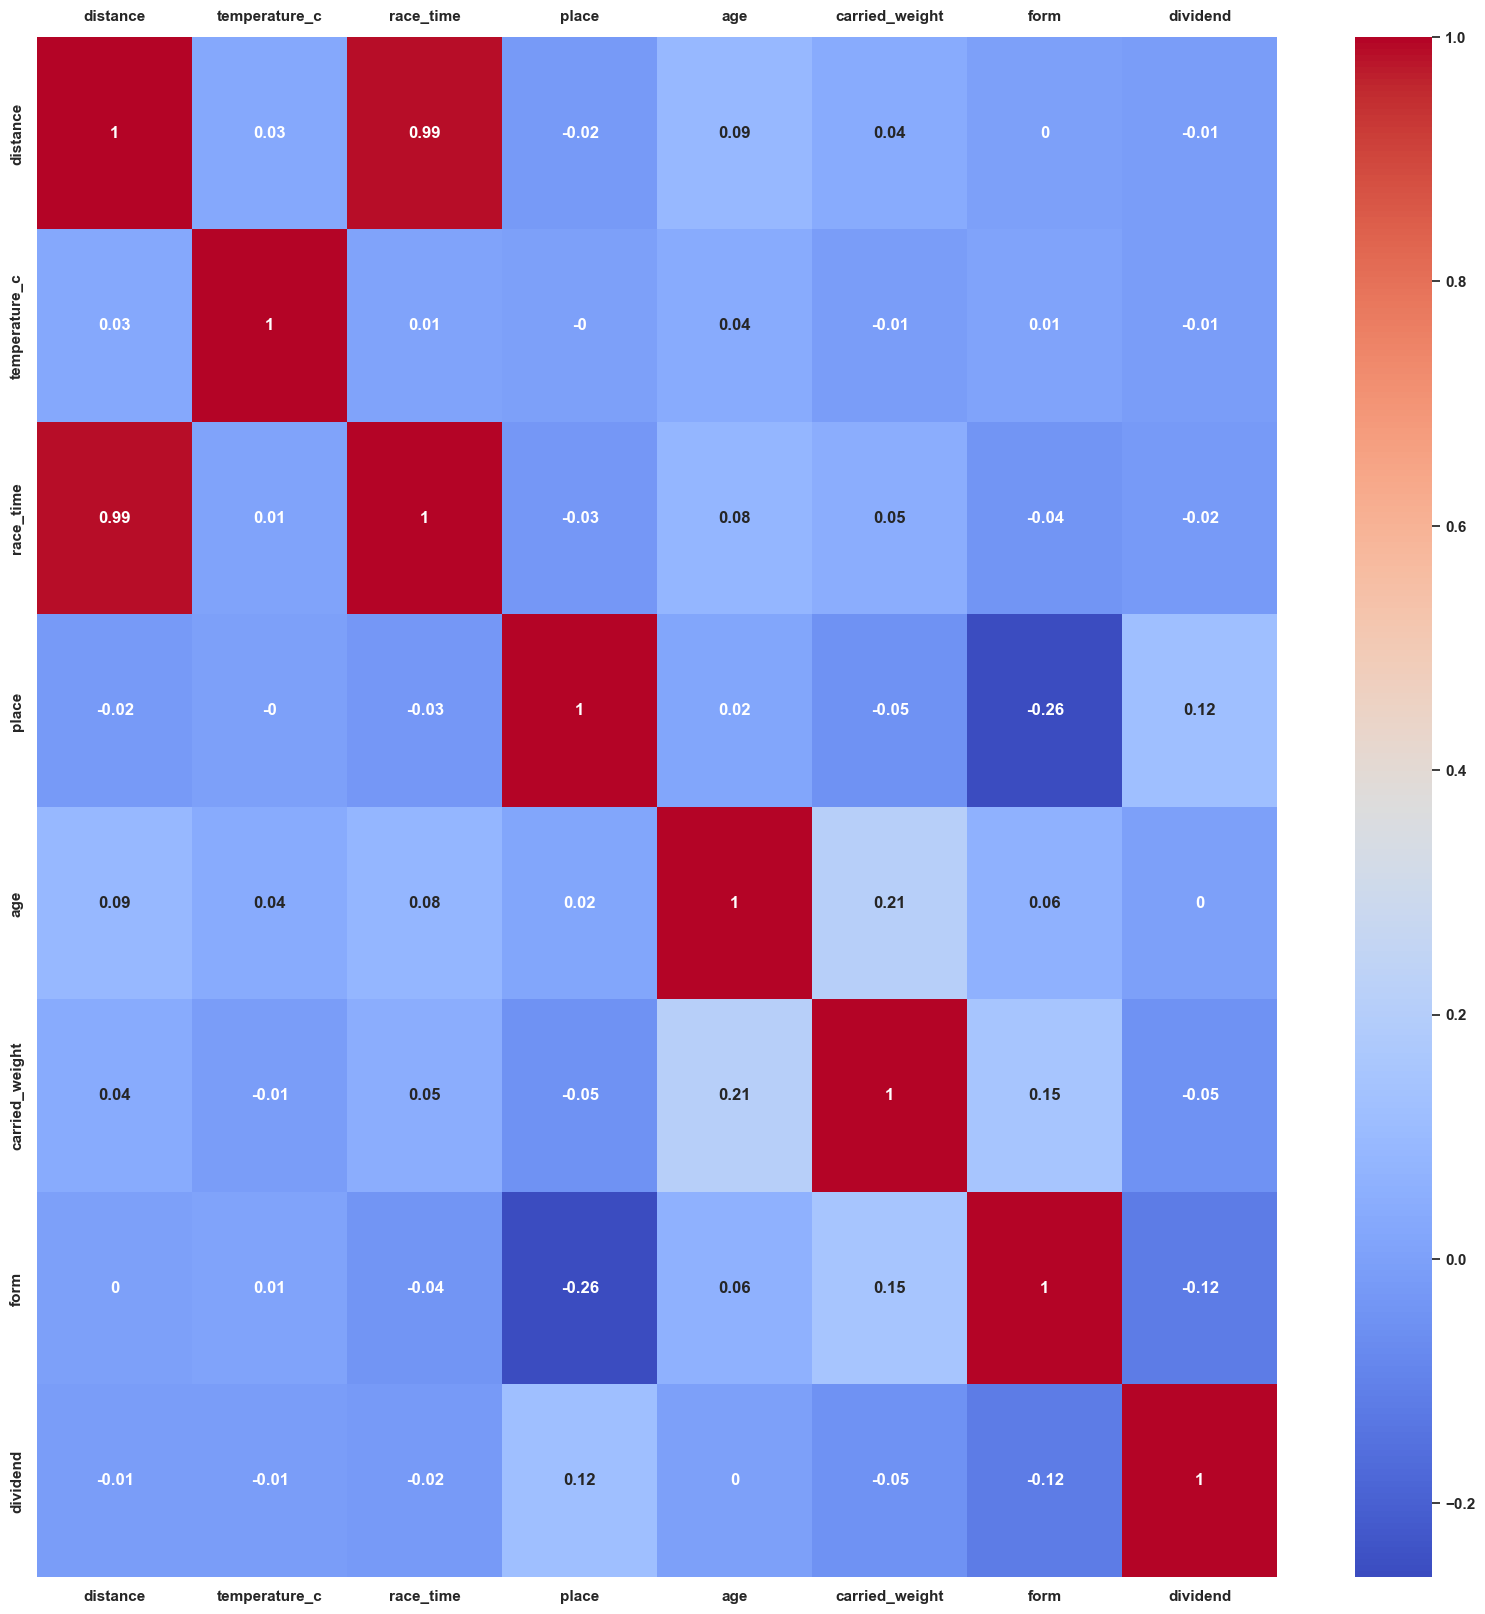
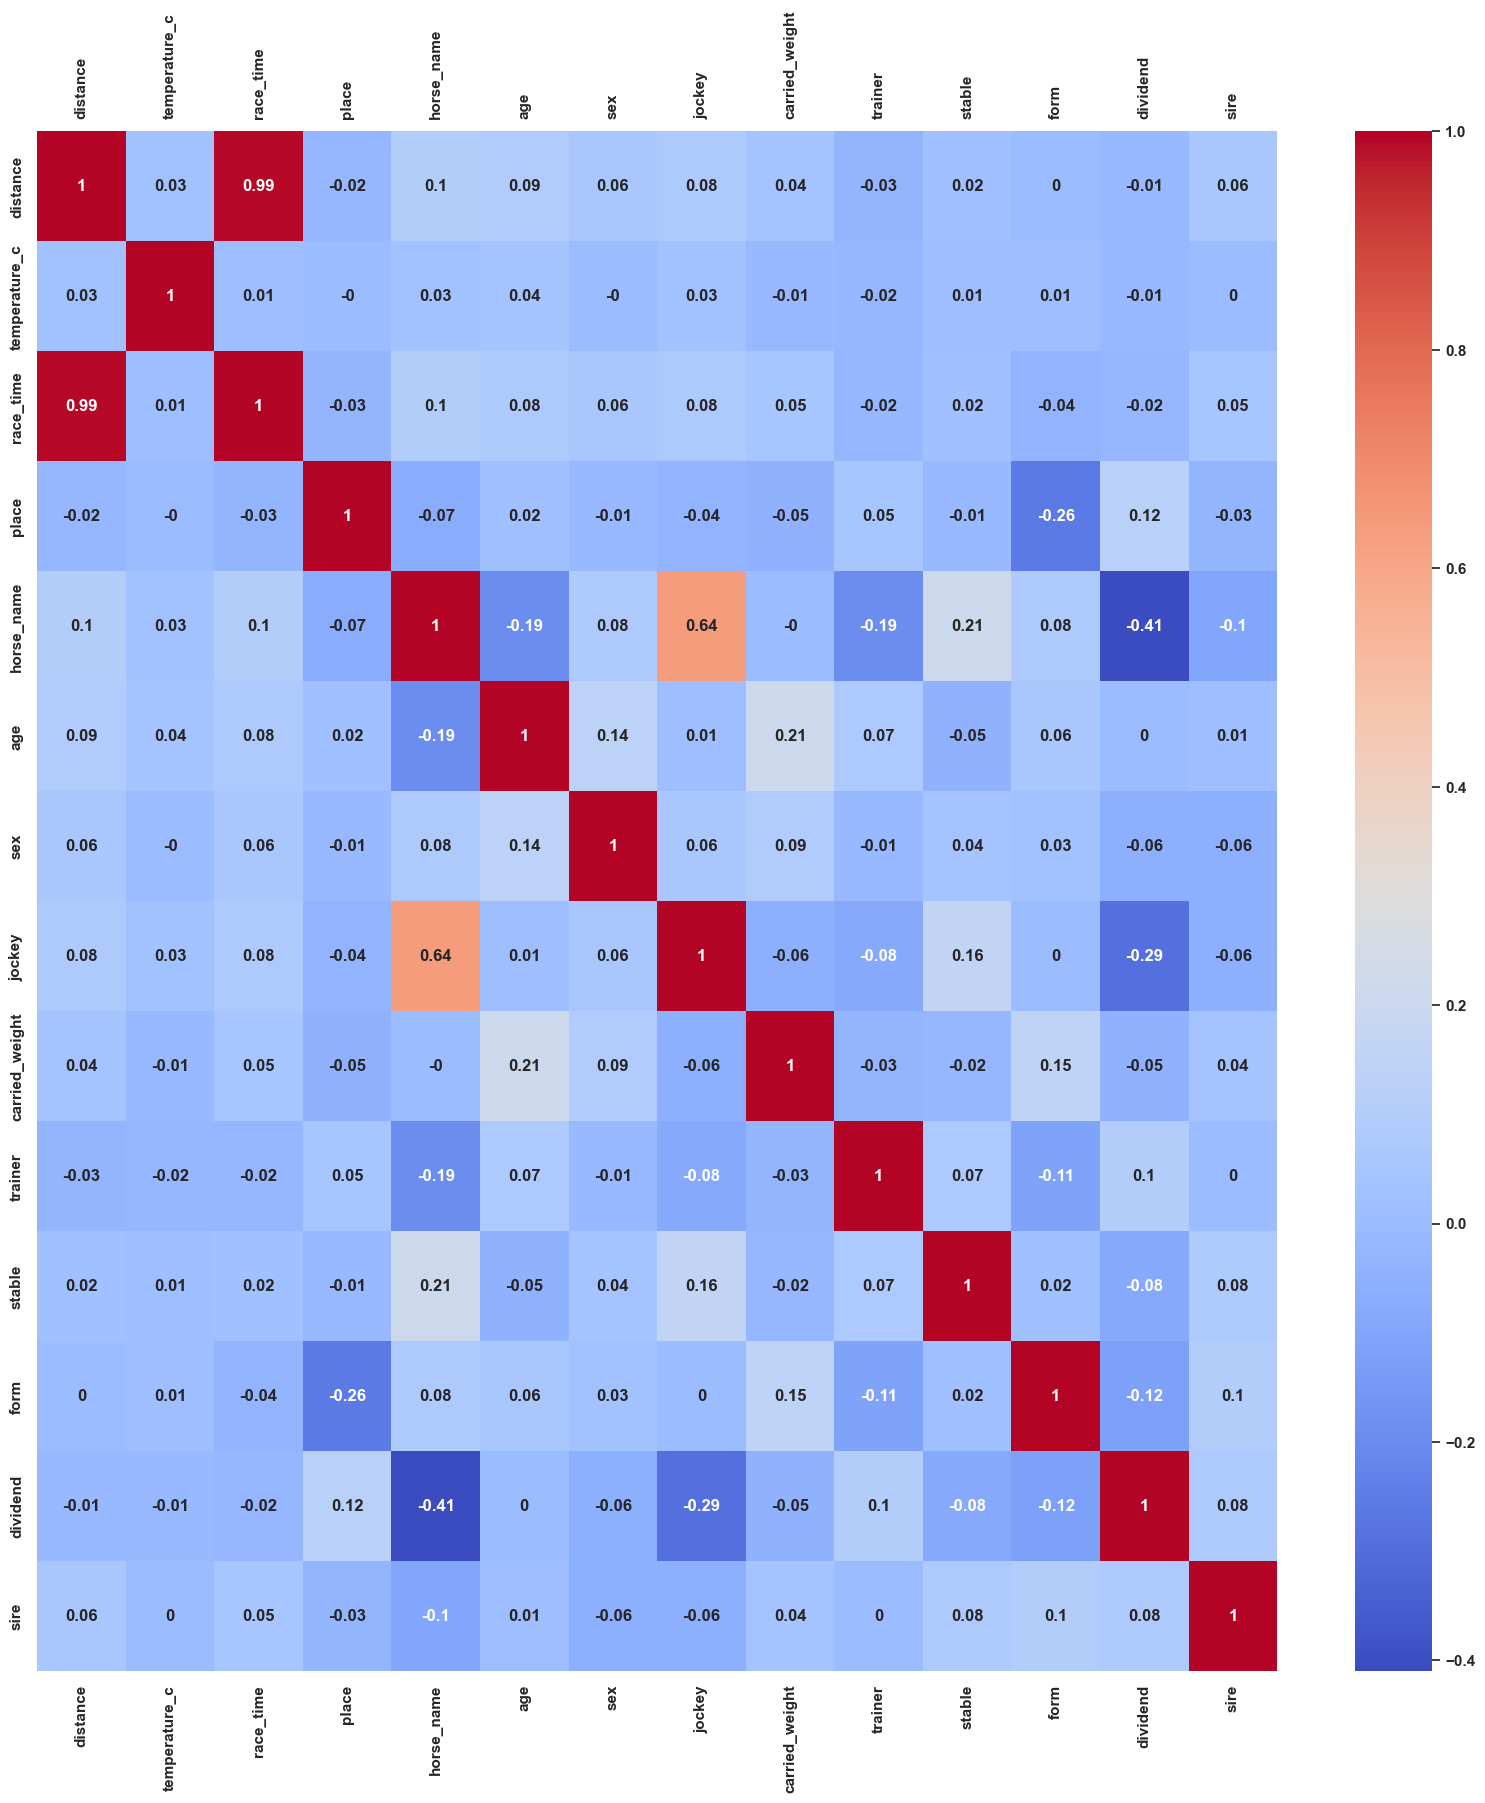
Numerizing some might be important cols

diff --git a/horzie.py b/horzie.py
@@ -4,7 +4,8 @@ from torch.utils.data import DataLoader
 from torchvision import datasets, transforms
 from torchvision.transforms import ToTensor
 
-from helper_functions import place_conversion, standardize
+from helper_functions import conversion, standardize, StringHolder
+from helper_variables import place_match, sex_match
 
 import numpy as np
 import pandas as pd
@@ -24,30 +25,41 @@ results.drop(columns=[
   'race_name', 
   'versenydij', 
   'program_number', 
-  'horse_name', 
   'color',
   'time', 
-  'sire', 
   'dam'], 
   inplace=True)
 
 # @TODO Try to fill the nullish values (race_time), instead of masking
 # print(results.isnull().sum()) # Should check nan as well
 
-results['race_of_the_day'] = results['race_of_the_day'].apply(place_conversion)
-
-
-results['place'] = results['place'].apply(place_conversion)
-results['place'] = pd.to_numeric(results['place'], errors='coerce')
+results['race_of_the_day'] = results['race_of_the_day'].apply(conversion, args=(place_match,))
+results['place'] = results['place'].apply(conversion, args=(place_match,))
+results['sex'] = results['sex'].apply(conversion, args=(sex_match,))
 
 mask = results['race_time'].notna()
 results['race_time'] = results.loc[mask, 'race_time'] = pd.to_timedelta(
-    '00:' + results.loc[mask, 'race_time'].astype(str)
+  '00:' + results.loc[mask, 'race_time'].astype(str)
 )
 results['race_time'] = results['race_time'].dt.total_seconds()
-results[['race_time', 'distance', 'dividend']] = results[['race_time', 'distance', 'dividend']].apply(standardize)
 
-# @TODO Try to convert string columns like trainer to a numeric value, as it might mean mething who trained the horses
+jocky_names = StringHolder(results['jockey'])
+horse_names = StringHolder(results['horse_name'])
+trainer_names = StringHolder(results['trainer'])
+stable_names = StringHolder(results['stable'])
+sire_names = StringHolder(results['sire'])
+
+results['jockey'] = results['jockey'].apply(conversion, args=(jocky_names.names,))
+results['horse_name'] = results['horse_name'].apply(conversion, args=(horse_names.names,))
+results['trainer'] = results['trainer'].apply(conversion, args=(trainer_names.names,))
+results['stable'] = results['stable'].apply(conversion, args=(stable_names.names,))
+results['sire'] = results['sire'].apply(conversion, args=(sire_names.names,))
+
+results[[
+  'race_time', 'distance', 'dividend', 'jockey', 'horse_name', 'trainer', 'stable', 'sire'
+  ]] = results[[
+    'race_time', 'distance', 'dividend', 'jockey', 'horse_name', 'trainer', 'stable', 'sire'
+    ]].apply(standardize)
 
 print(results.info())
 pd.set_option('display.max_colwidth', None)

diff --git a/helper_functions.py b/helper_functions.py
@@ -1,34 +1,5 @@
-__place_match = {
-  'I.':1,
-  'II.':2,
-  'III.':3,
-  'IV.':4,
-  'V.':5,
-  'VI.':6,
-  'VII.':7,
-  'VIII.':8,
-  'IX.':9,
-  'X.':10,
-  'XI.':11,
-  'XII.':12,
-  'disq.':0,
-  '0.':0,
-  '1.':1,
-  '2.':2,
-  '3.':3,
-  '4.':4,
-  '5.':5,
-  '6.':6,
-  '7.':7,
-  '8.':8,
-  '9.':9,
-  '10.':10,
-  '11.':11,
-  '12.':12,
-}
-
-def place_conversion(x):
-  for [key, val] in __place_match.items():
+def conversion(x, collection):
+  for [key, val] in collection.items():
     if key in str(x):
       x = val
       return x
@@ -36,3 +7,12 @@ def place_conversion(x):
 
 def standardize(x):
   return (x - x.min()) / (x.max() - x.min())
+
+class StringHolder:
+  names = {}
+
+  def __init__(self, collection):
+    for key in collection:
+      if key not in self.names:
+        self.names[key] = len(self.names.keys()) + 1
+      

diff --git a/helper_variables.py b/helper_variables.py
@@ -1,0 +1,35 @@
+place_match = {
+  'I.':1,
+  'II.':2,
+  'III.':3,
+  'IV.':4,
+  'V.':5,
+  'VI.':6,
+  'VII.':7,
+  'VIII.':8,
+  'IX.':9,
+  'X.':10,
+  'XI.':11,
+  'XII.':12,
+  'disq.':0,
+  'P': 0,
+  '0.':0,
+  '1.':1,
+  '2.':2,
+  '3.':3,
+  '4.':4,
+  '5.':5,
+  '6.':6,
+  '7.':7,
+  '8.':8,
+  '9.':9,
+  '10.':10,
+  '11.':11,
+  '12.':12,
+}
+
+sex_match = {
+  'male': 1,
+  'female': 2,
+  'gelding': 3
+}
